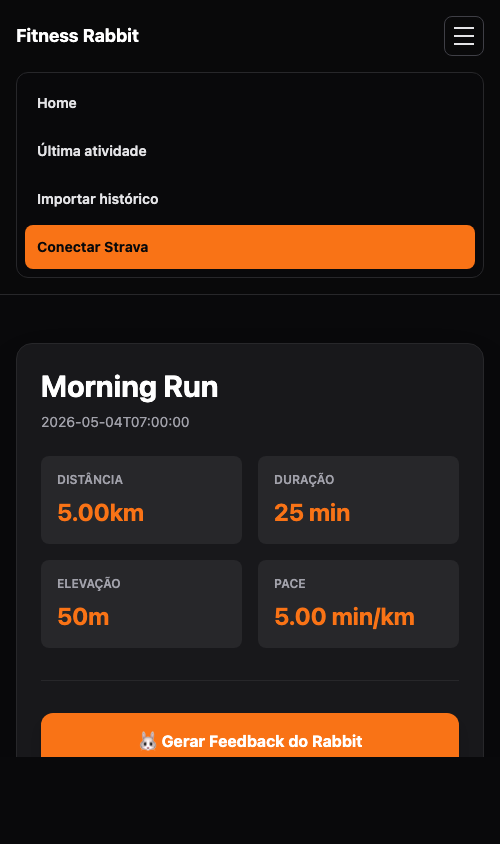
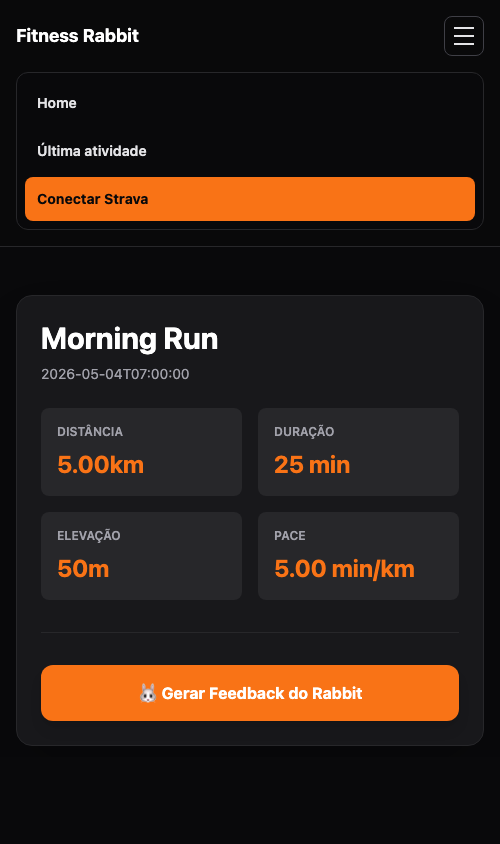
hide import nav link

diff --git a/templates/partials/header.html b/templates/partials/header.html
@@ -5,7 +5,6 @@
         <nav class="flex items-center gap-1" aria-label="Navegação principal">
             <a href="/" class="rounded-lg px-3 py-2 text-sm font-semibold text-zinc-300 hover:bg-zinc-900 hover:text-white">Home</a>
             <a href="/last-activity" class="rounded-lg px-3 py-2 text-sm font-semibold text-zinc-300 hover:bg-zinc-900 hover:text-white">Última atividade</a>
-            <a href="/import/activities" class="rounded-lg px-3 py-2 text-sm font-semibold text-zinc-300 hover:bg-zinc-900 hover:text-white">Importar histórico</a>
             <a href="/connect-strava" class="rounded-lg bg-orange-500 px-4 py-2 text-sm font-bold text-zinc-950 hover:bg-orange-400">Conectar Strava</a>
         </nav>
     </div>
@@ -25,7 +24,6 @@
         <nav class="mt-4 grid gap-1 rounded-xl border border-zinc-800 bg-zinc-950 p-2" aria-label="Navegação mobile">
             <a href="/" class="block rounded-lg px-3 py-3 text-sm font-semibold text-zinc-200 hover:bg-zinc-900">Home</a>
             <a href="/last-activity" class="block rounded-lg px-3 py-3 text-sm font-semibold text-zinc-200 hover:bg-zinc-900">Última atividade</a>
-            <a href="/import/activities" class="block rounded-lg px-3 py-3 text-sm font-semibold text-zinc-200 hover:bg-zinc-900">Importar histórico</a>
             <a href="/connect-strava" class="block rounded-lg bg-orange-500 px-3 py-3 text-sm font-bold text-zinc-950 hover:bg-orange-400">Conectar Strava</a>
         </nav>
     </details>